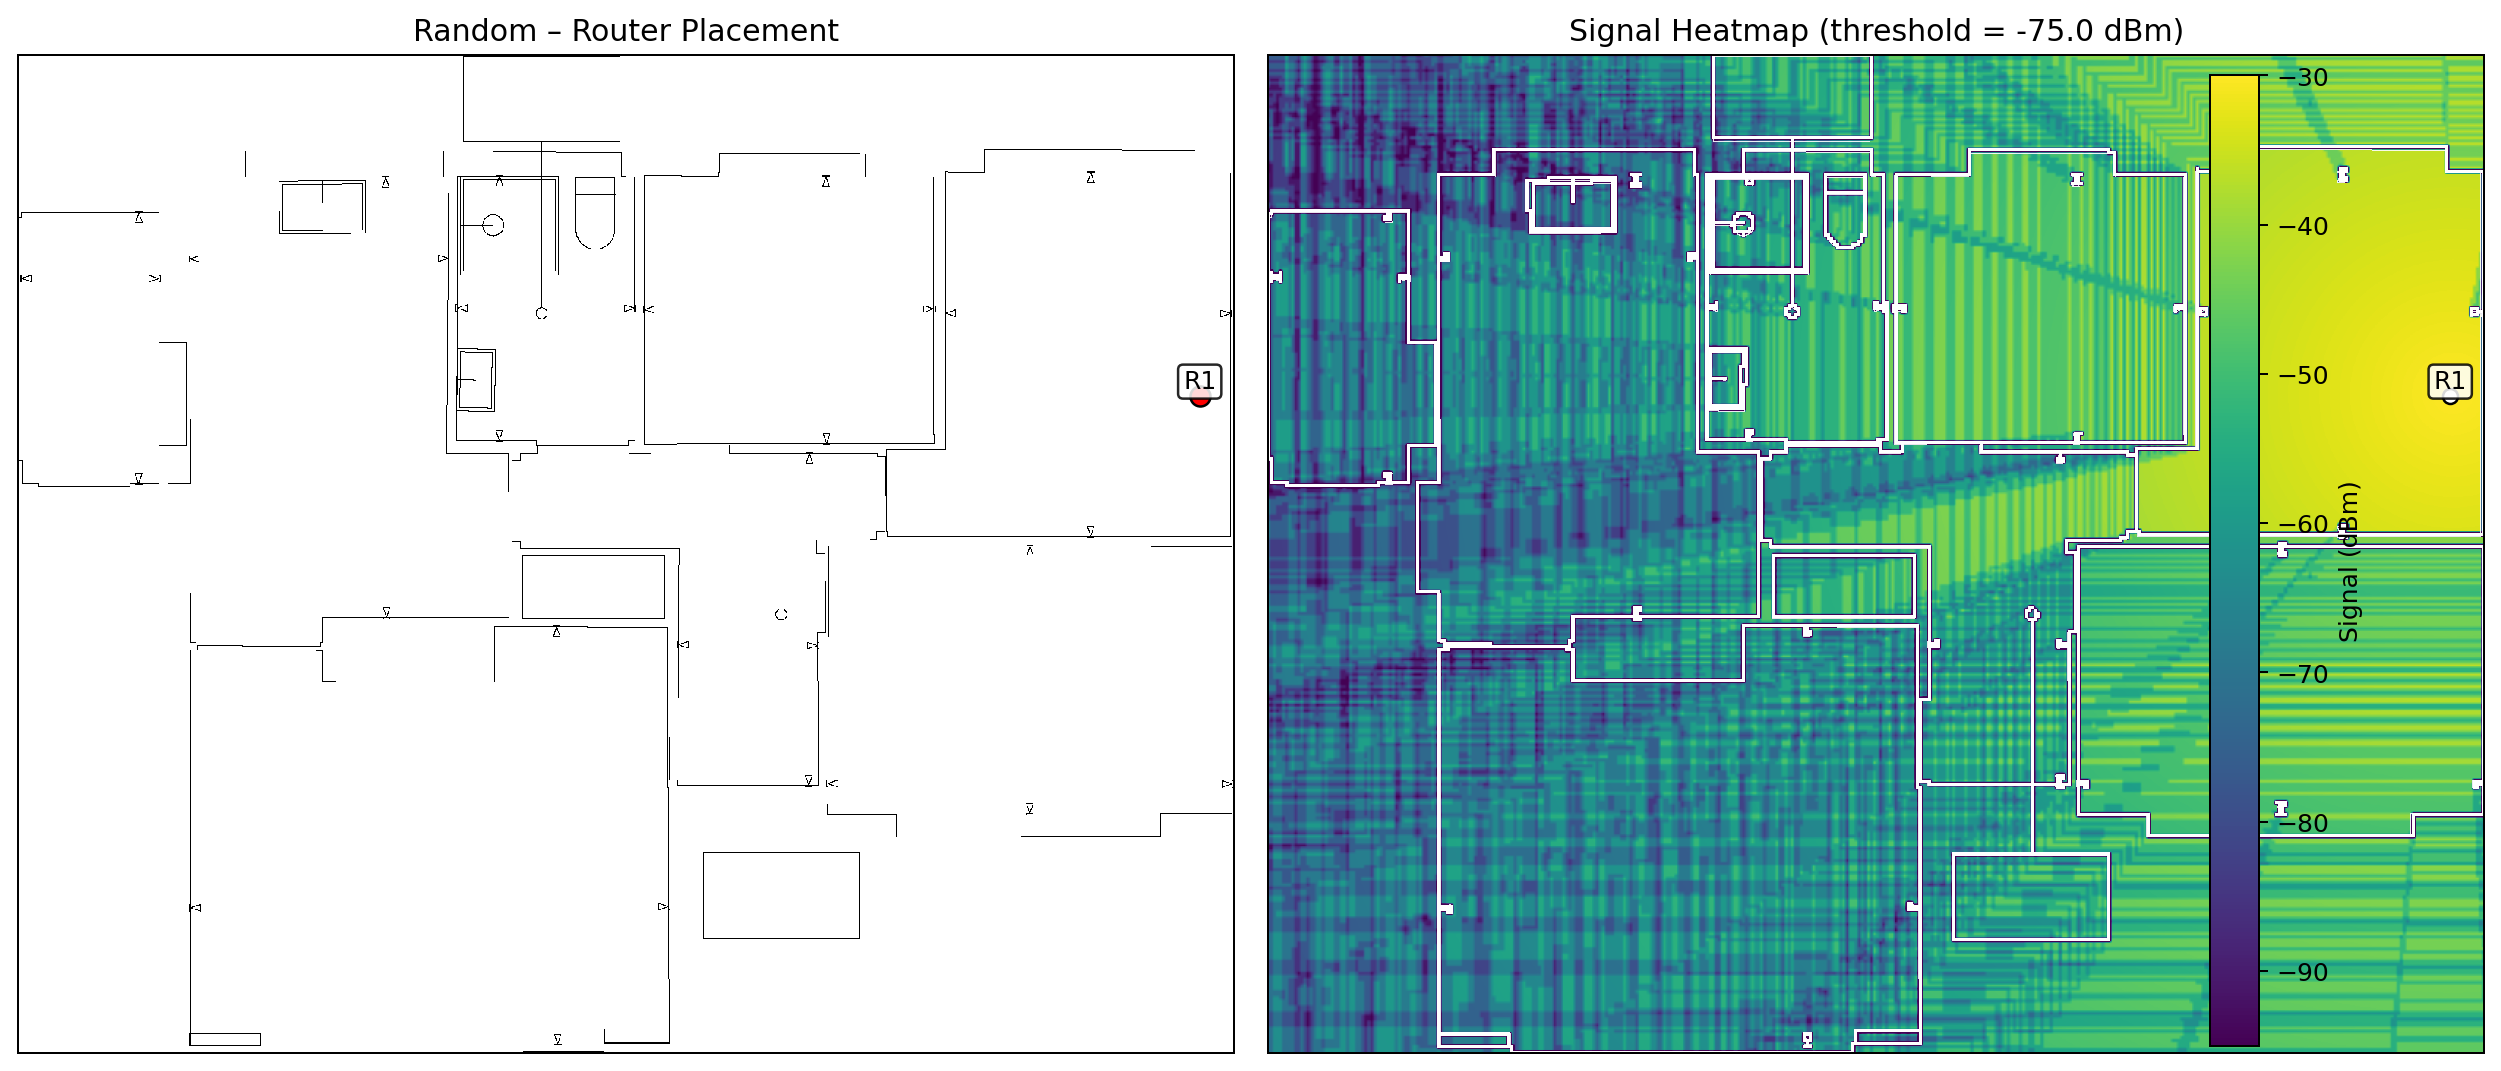
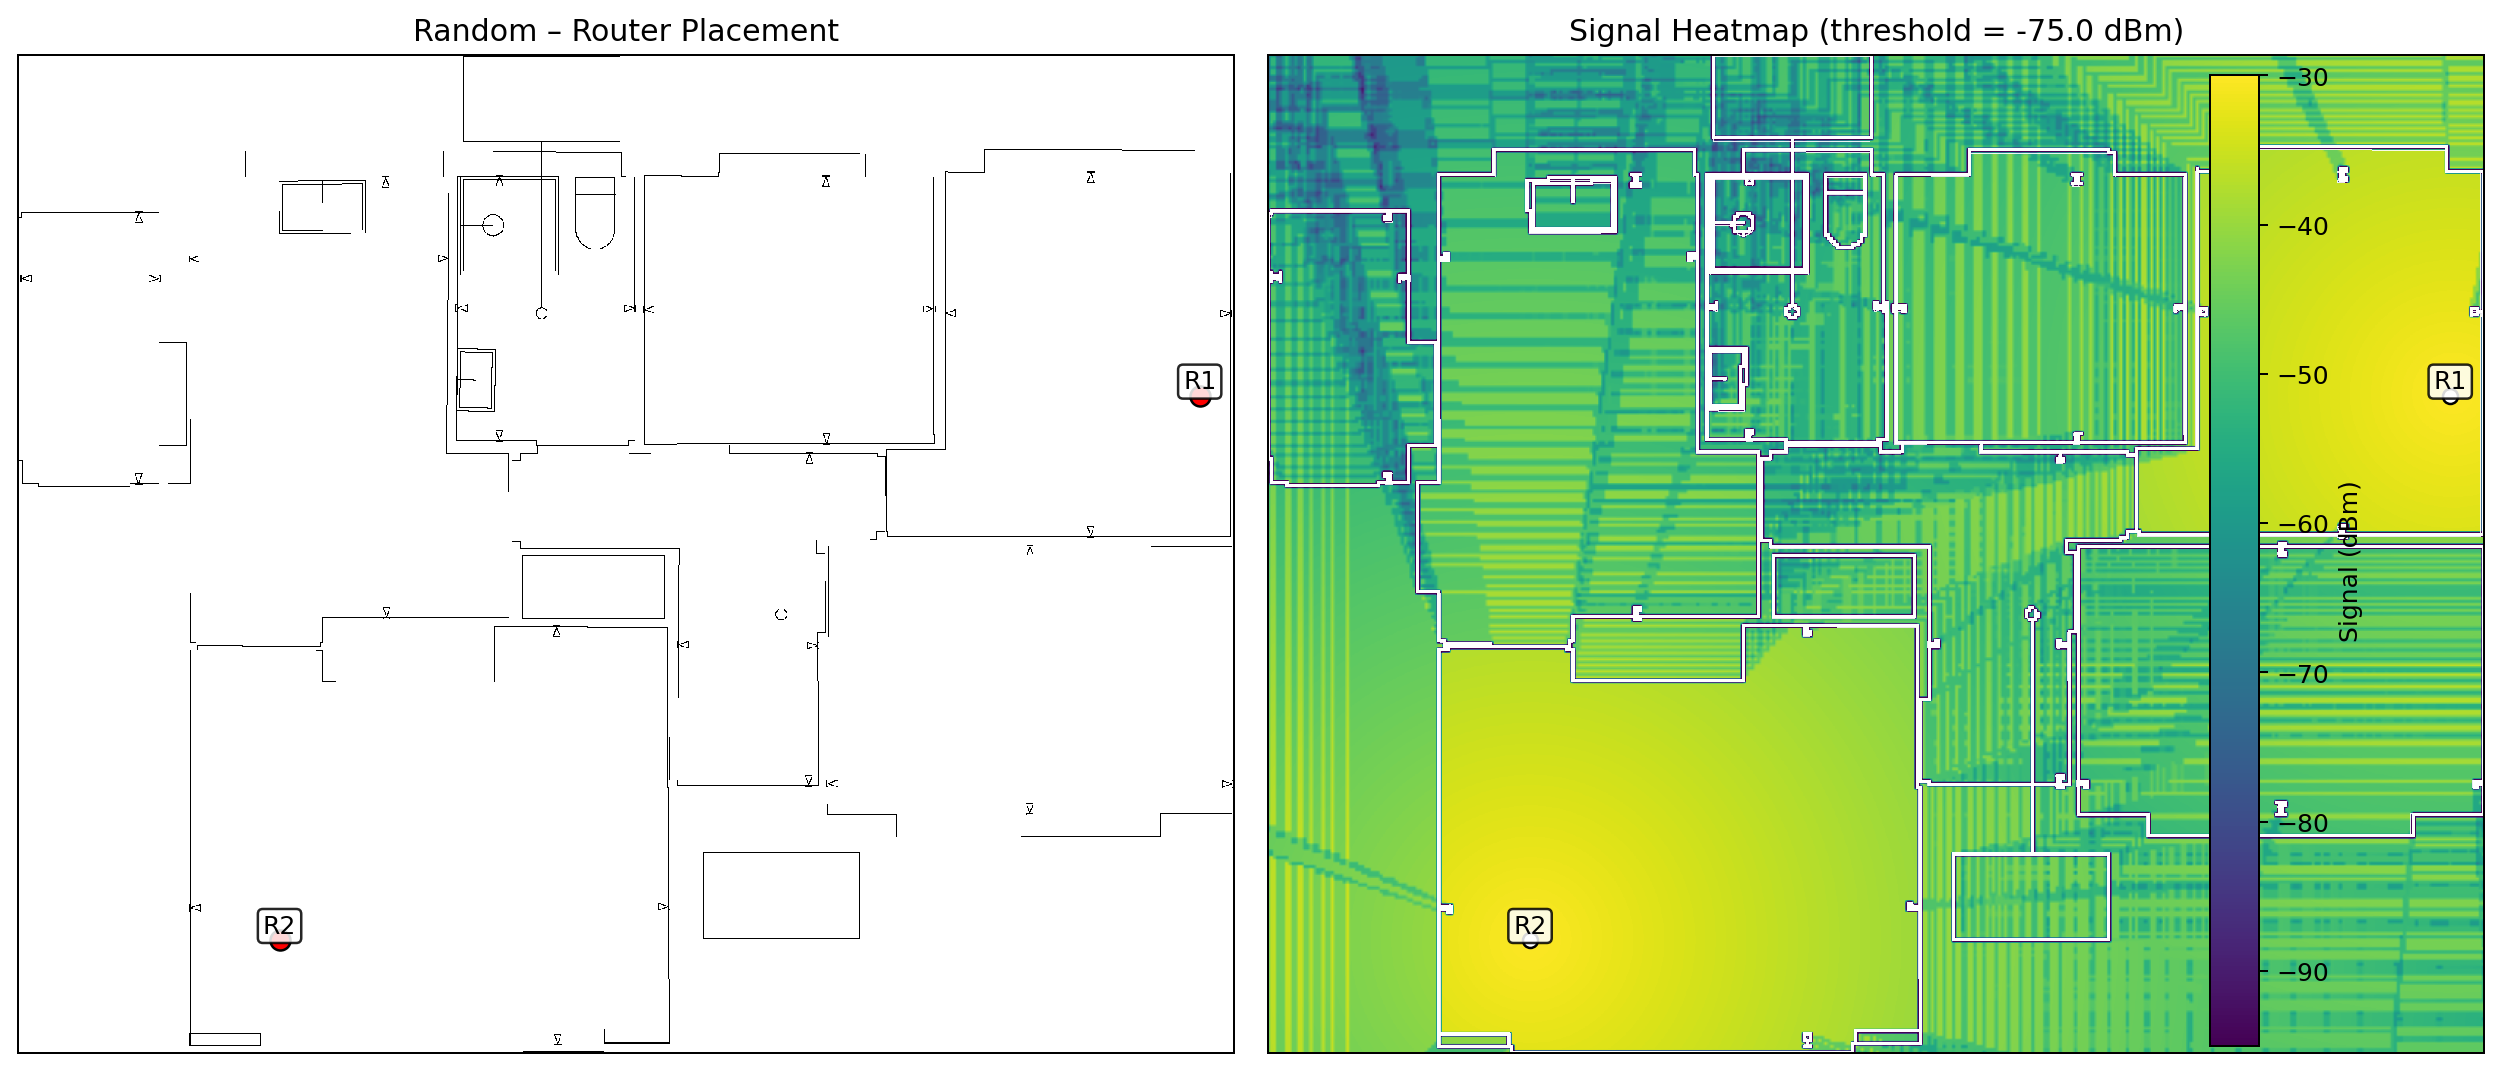
Improve genetic algorithm placement to find better Wi-Fi coverage
Update genetic algorithm to use wall-aware fitness and spatially diverse initialization, ensuring it finds superior router placements compared to random methods.

Replit-Commit-Author: Agent
Replit-Commit-Session-Id: 8a9ac715-13c0-4d53-a1d7-ec6735ffe544
Replit-Commit-Checkpoint-Type: full_checkpoint
Replit-Commit-Event-Id: b3472f70-5213-4478-9385-30494dca6ce0
Replit-Commit-Screenshot-Url: https://storage.googleapis.com/screenshot-production-us-central1/68abd7b5-0b85-4e3e-a3d4-29f119f7cc09/8a9ac715-13c0-4d53-a1d7-ec6735ffe544/FTiwbbi
Replit-Helium-Checkpoint-Created: true

diff --git a/optimization.py b/optimization.py
@@ -98,10 +98,11 @@ def _coverage_metrics(routers, grid, n_steps=50):
     return coverage, avg_sig
 
 
-def _fast_fitness(routers, grid):
+def _ga_fitness(routers, grid):
     """
-    Distance-only (no wall) fitness for use INSIDE the GA loop.
-    Fast but approximate — used to guide search, not for final metrics.
+    Wall-aware fitness for the GA using n_steps=6 ray sampling.
+    Fast enough for hundreds of evaluations while genuinely accounting
+    for walls — so the GA produces meaningfully better results than random.
     """
     h, w = grid.shape
     cs = _cell_size_m(grid)
@@ -109,7 +110,9 @@ def _fast_fitness(routers, grid):
     heat = np.full((h, w), -300.0, dtype=np.float32)
     for rx, ry in routers:
         dist_m = np.sqrt((x_idx - rx) ** 2 + (y_idx - ry) ** 2) * cs
-        heat = np.maximum(heat, _S0 - _D_LOSS_K * dist_m)
+        crossings = _wall_crossings_map(grid, rx, ry, n_steps=6)
+        sig = _S0 - _D_LOSS_K * dist_m - _WALL_PENALTY * crossings
+        heat = np.maximum(heat, sig)
     free = heat[grid == 0]
     if len(free) == 0:
         return 0.0
@@ -139,22 +142,70 @@ def _scale_routers(routers, from_grid, to_grid):
 
 # ── Placement strategies ──────────────────────────────────────────────────────
 
-def _run_ga(grid, num_routers, population_size=20, generations=30, seed=42):
+def _diverse_individual(free, num_routers, rng, n_sectors=None):
     """
-    Custom GA using the fast (distance-only) fitness for speed.
-    Final metrics are recomputed with the accurate wall model after the GA.
+    Create one individual by sampling from spatial sectors of the free space,
+    ensuring candidates spread across the entire building rather than
+    clustering in one corner.
+    """
+    if n_sectors is None:
+        n_sectors = max(num_routers * 4, 20)
+
+    # Partition sorted free cells into equal sectors
+    sorted_free = sorted(free)
+    chunk = max(1, len(sorted_free) // n_sectors)
+    sectors = [sorted_free[i * chunk:(i + 1) * chunk]
+               for i in range(n_sectors) if sorted_free[i * chunk:(i + 1) * chunk]]
+
+    chosen_sectors = rng.sample(sectors, min(num_routers, len(sectors)))
+    ind = []
+    seen = set()
+    for sector in chosen_sectors:
+        c = rng.choice(sector)
+        if c not in seen:
+            ind.append(c)
+            seen.add(c)
+    # Fill any remaining slots randomly
+    while len(ind) < num_routers:
+        c = rng.choice(free)
+        if c not in seen:
+            ind.append(c)
+            seen.add(c)
+    return ind
+
+
+def _run_ga(grid, num_routers, population_size=15, generations=16, seed=42):
+    """
+    Genetic Algorithm with wall-aware fitness and spatially diverse
+    population initialization.
+
+    Key improvements over purely random initialization:
+    - Pop[0] is the uniform-grid placement (a strong, well-spread seed).
+    - Remaining members are sampled from spatial sectors so every region
+      of the building is represented from generation 0.
+    - Mutation rate 0.3 (vs 0.2) encourages broader exploration.
+
+    15 pop × 16 gen = 240 evaluations × ~15 ms each ≈ 3.6 s total.
     """
     rng = _random.Random(seed)
     free = get_free_cells(grid)
     if num_routers > len(free):
         raise ValueError("num_routers exceeds number of free cells")
 
-    pop = [rng.sample(free, num_routers) for _ in range(population_size)]
+    # Seed pop[0] with the uniform placement so we always start from a
+    # known-good spatially-spread solution
+    uniform_seed = uniform_placement(grid, num_routers)
+    pop = [uniform_seed]
+
+    # Fill remaining population with spatially diverse individuals
+    while len(pop) < population_size:
+        pop.append(_diverse_individual(free, num_routers, rng))
+
     best_ind = pop[0][:]
     best_fit = float('-inf')
 
     for _ in range(generations):
-        fits = [_fast_fitness(ind, grid) for ind in pop]
+        fits = [_ga_fitness(ind, grid) for ind in pop]
 
         gi = max(range(len(pop)), key=lambda i: fits[i])
         if fits[gi] > best_fit:
@@ -173,15 +224,18 @@ def _run_ga(grid, num_routers, population_size=20, generations=30, seed=42):
                 child = pa[:cut] + pb[cut:]
             else:
                 child = pa[:]
-            child = [rng.choice(free) if rng.random() < 0.2 else g for g in child]
+            # Higher mutation rate (0.3) for broader exploration
+            child = [rng.choice(free) if rng.random() < 0.3 else g for g in child]
             seen, repaired = set(), []
             for c in child:
                 if c not in seen:
-                    repaired.append(c); seen.add(c)
+                    repaired.append(c)
+                    seen.add(c)
             while len(repaired) < num_routers:
                 c = rng.choice(free)
                 if c not in seen:
-                    repaired.append(c); seen.add(c)
+                    repaired.append(c)
+                    seen.add(c)
             new_pop.append(repaired)
 
         pop = new_pop
